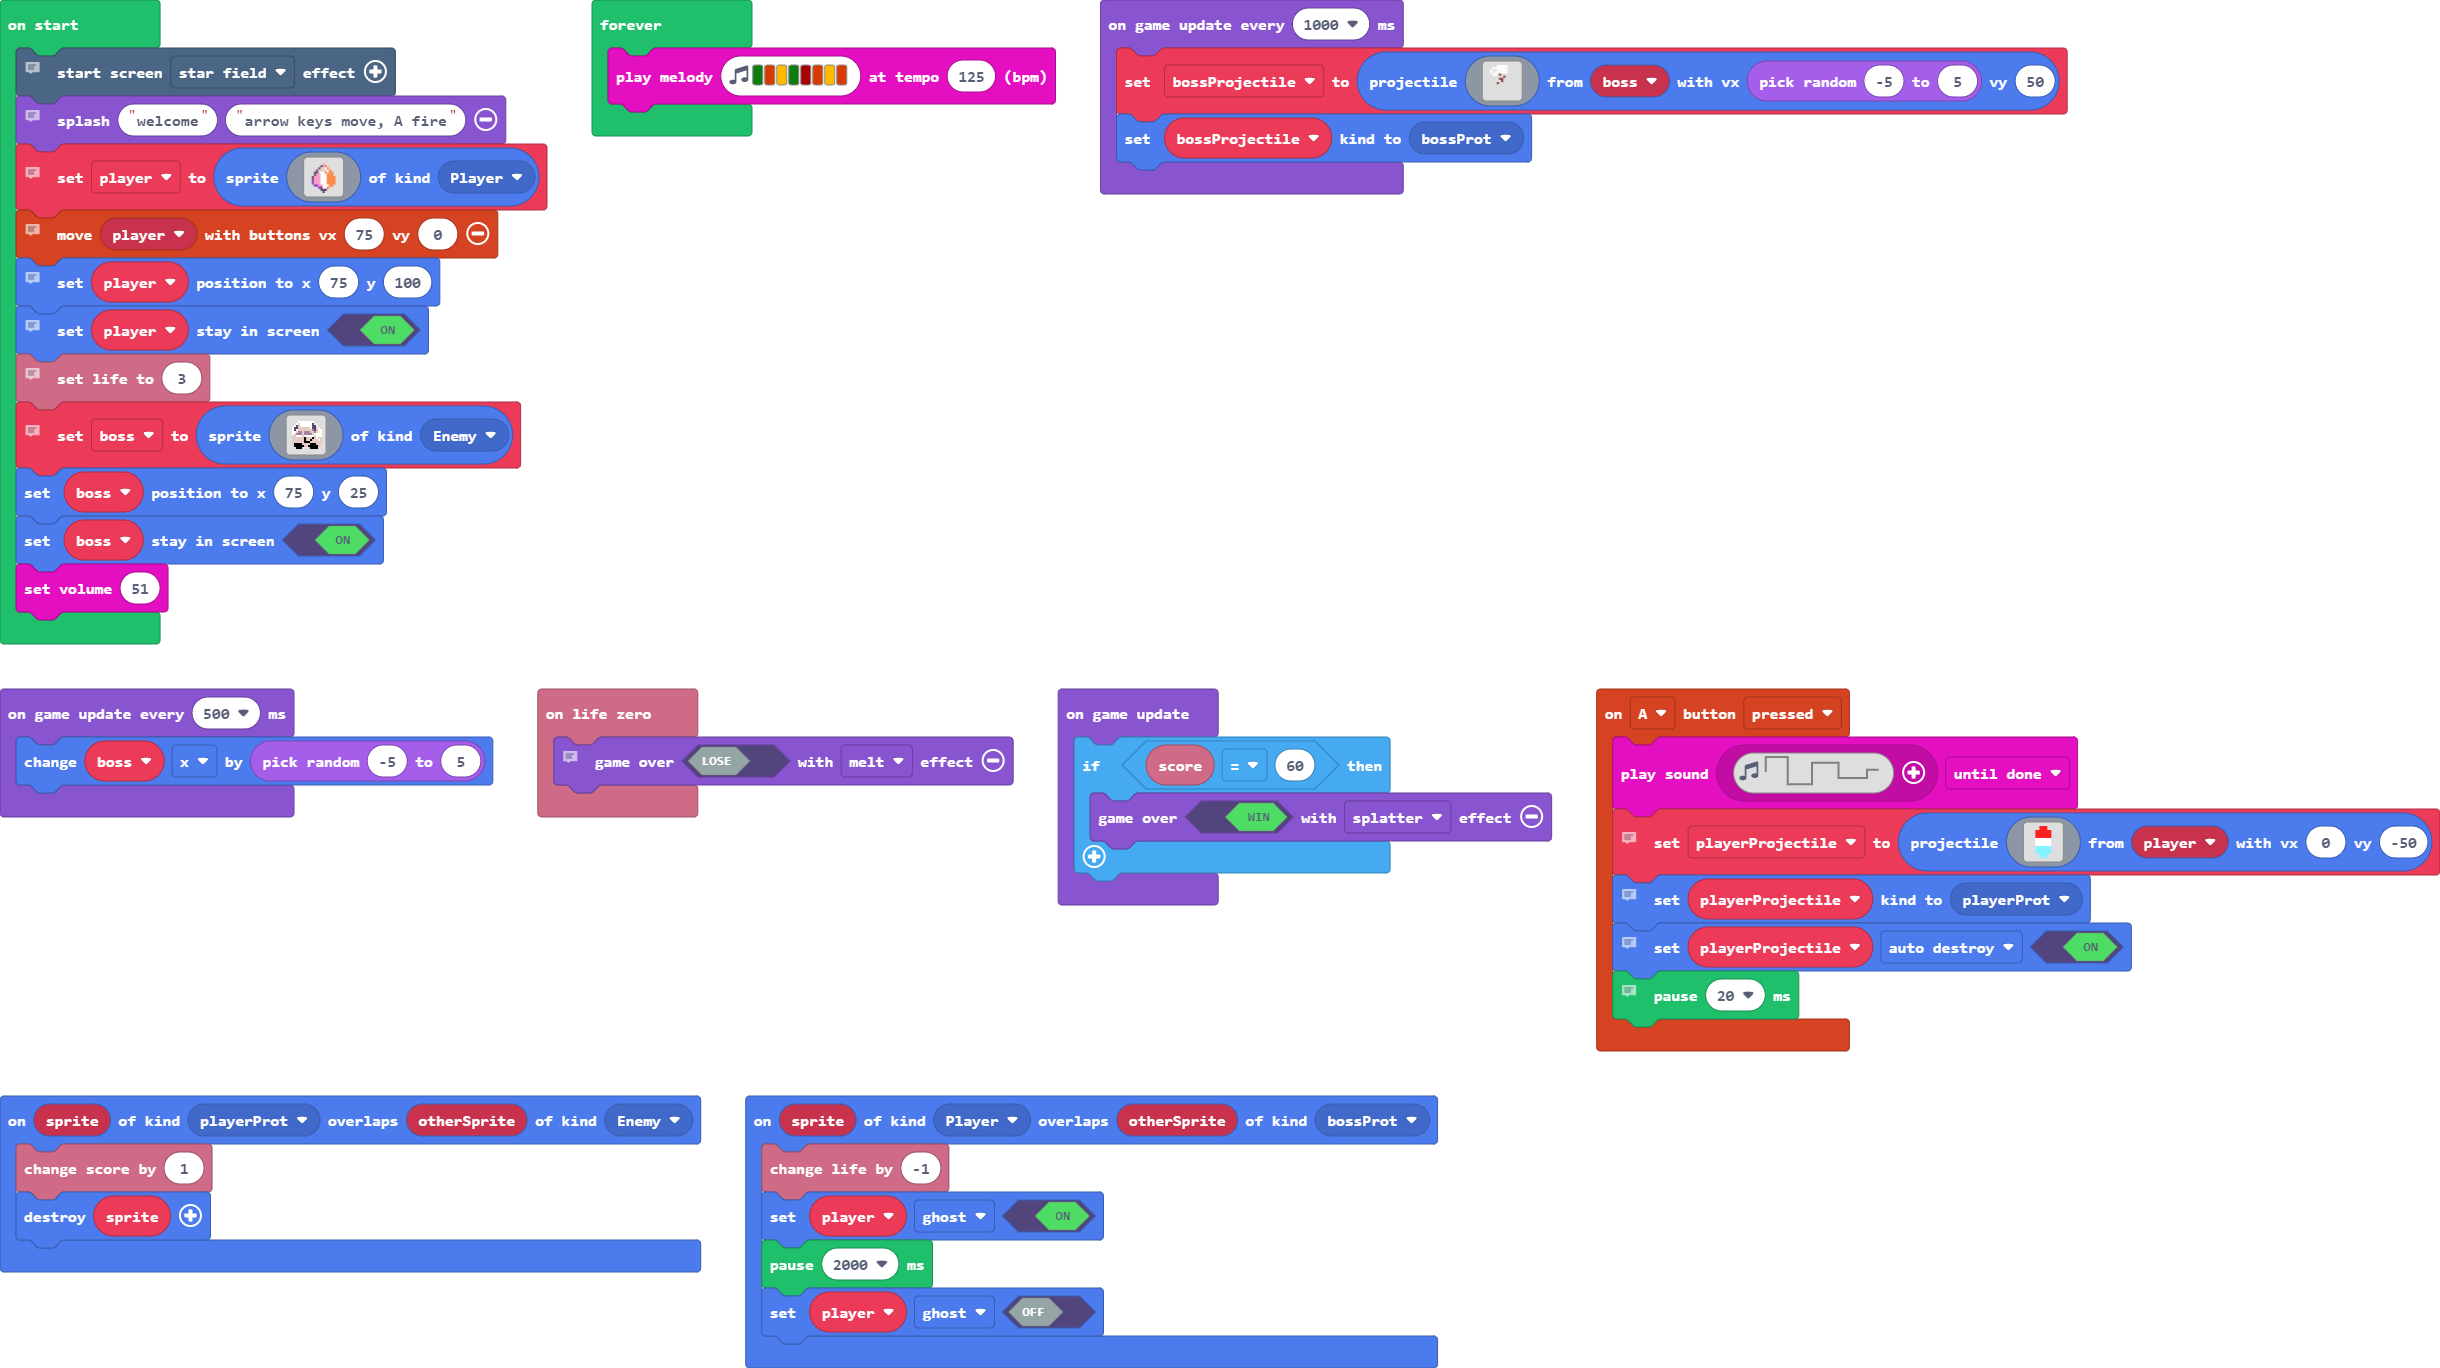
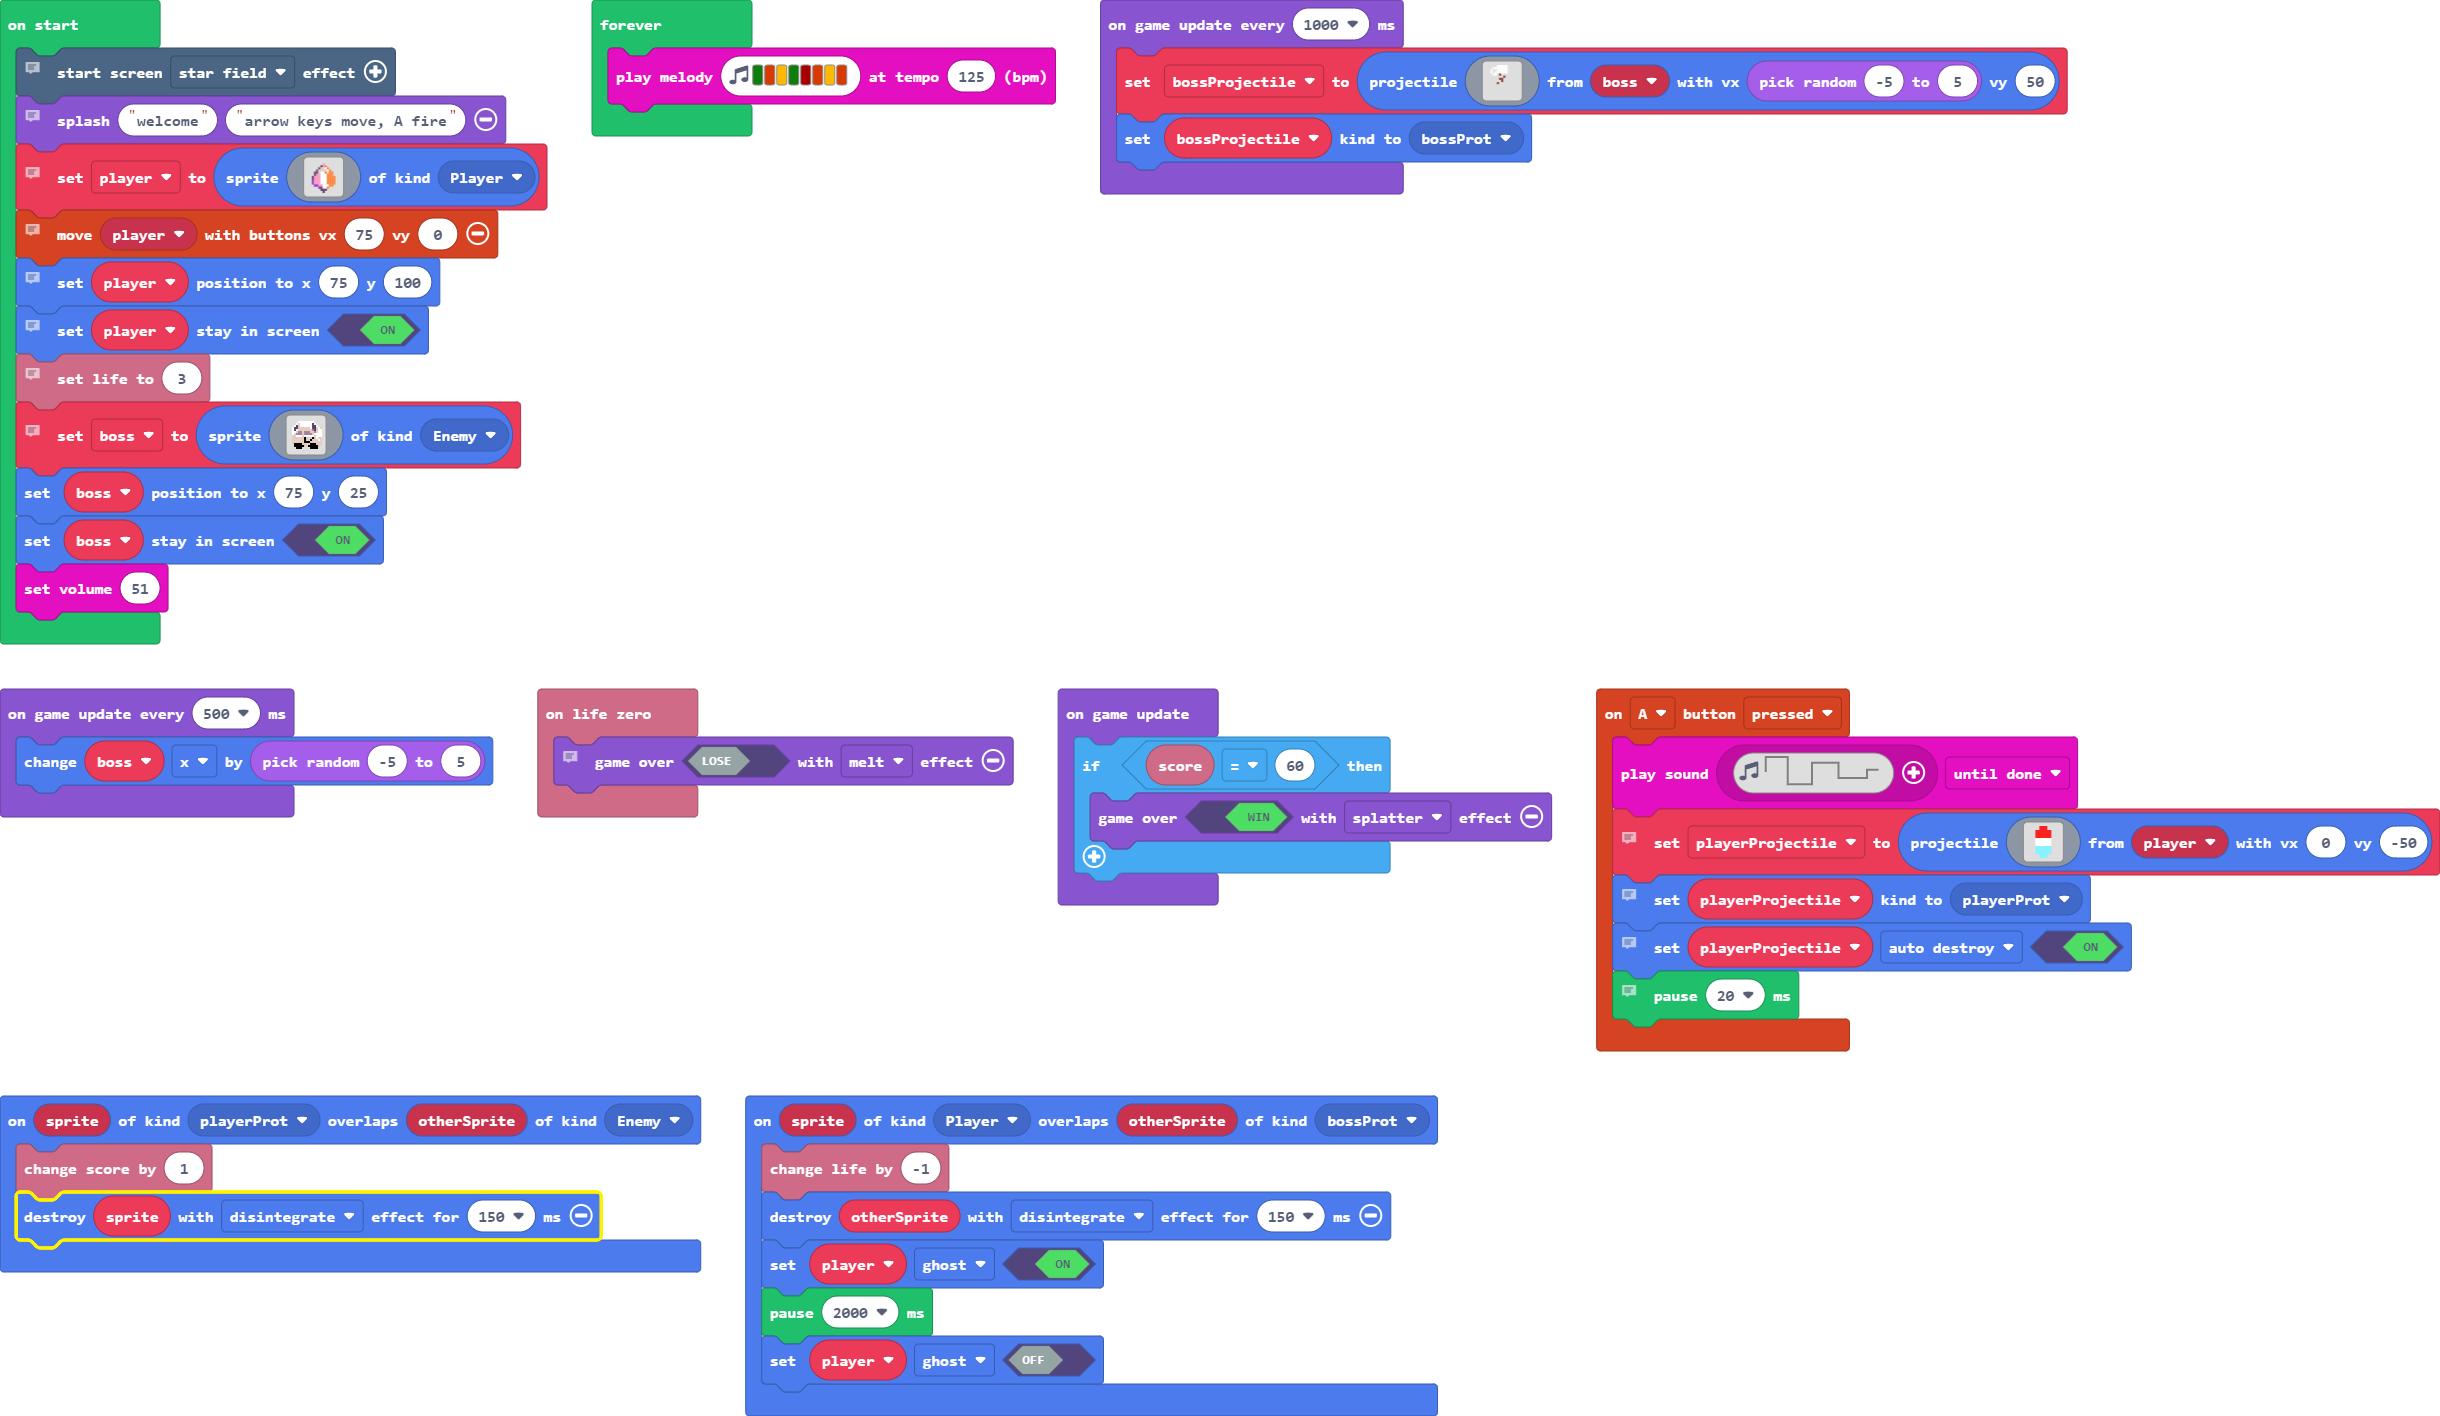
Update main.blocks, main.ts

diff --git a/main.ts b/main.ts
@@ -19,10 +19,11 @@ info.onLifeZero(function () {
 })
 sprites.onOverlap(SpriteKind.playerProt, SpriteKind.Enemy, function (sprite, otherSprite) {
     info.changeScoreBy(1)
-    sprite.destroy()
+    sprite.destroy(effects.disintegrate, 150)
 })
 sprites.onOverlap(SpriteKind.Player, SpriteKind.bossProt, function (sprite, otherSprite) {
     info.changeLifeBy(-1)
+    otherSprite.destroy(effects.disintegrate, 150)
     player.setFlag(SpriteFlag.Ghost, true)
     pause(2000)
     player.setFlag(SpriteFlag.Ghost, false)
